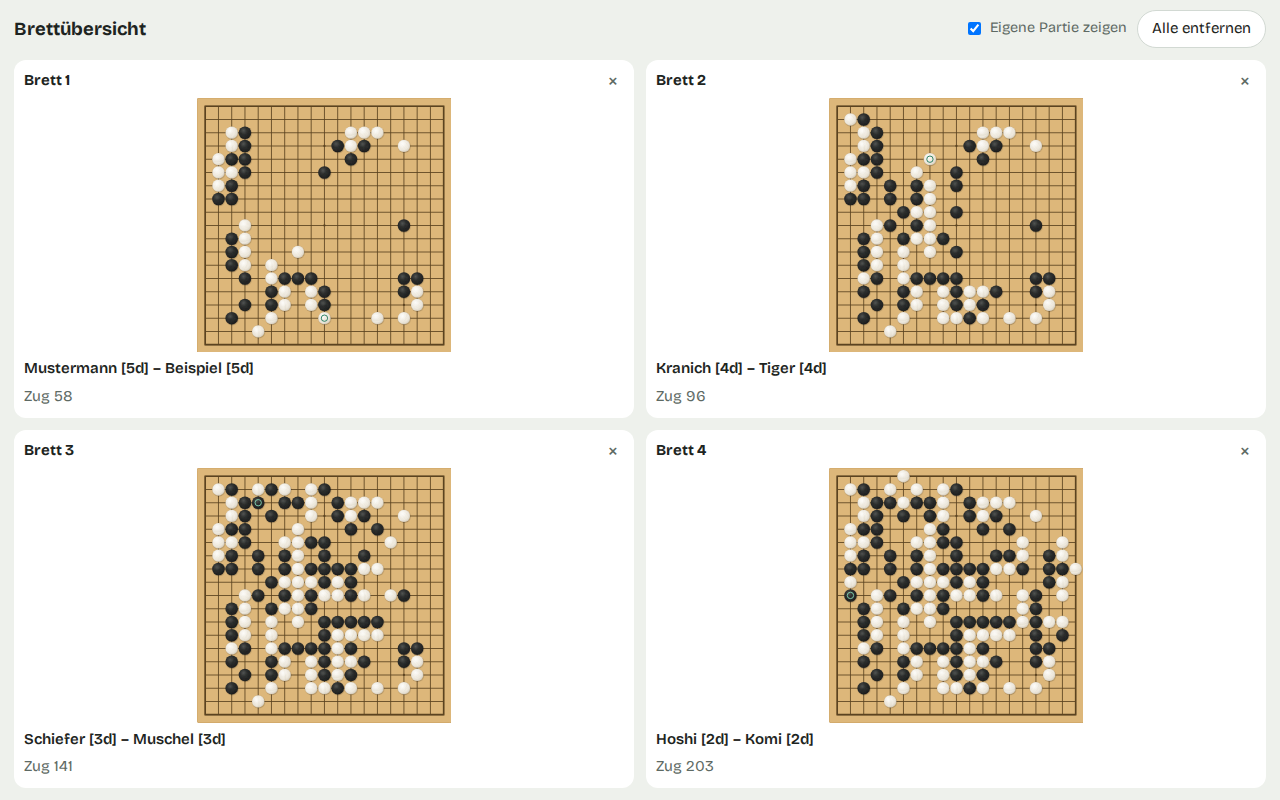
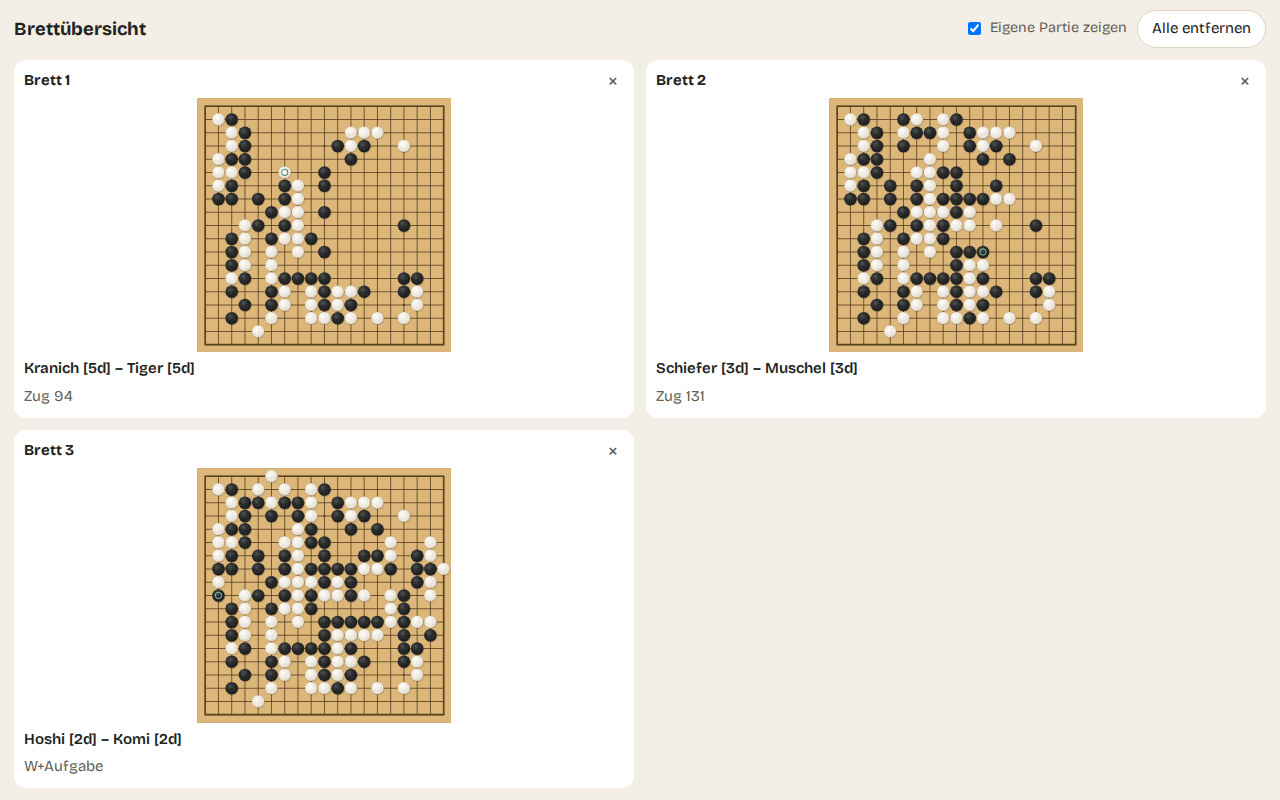
docs: new README screenshots with tones, columns and sound variants
Taken against the practice KGS; Beobachten added. Finding: a game whose
GAME_JOIN got lost shows an almost empty board.

diff --git a/README.md b/README.md
@@ -190,9 +190,6 @@ click (two-click solution).
 
 ## Screenshots
 
-(Taken on 26.11.2026 - before the warm background tones and the column layout of
-Beobachten; the boards and stones look the same.)
-
 **Live** - a broadcast with the official player and the board next to it (here the
 example: the EGF channel and the bundled EM 2026 final), design "Modern":
 
@@ -204,24 +201,29 @@ board, clam shell and slate stones, design "Modern dunkel":
 <img src="./docs/screenshots/app/nachspielen-katago.png" width="800" alt="Replay of the EM 2026 final at move 88 with KataGo's five best moves">
 
 **Kalender** - tournaments as a month sheet (or a list by region), ▶ marks games to
-replay:
+replay; background tone "Warmes Papier":
 
 <img src="./docs/screenshots/app/kalender.png" width="800" alt="Calendar month November 2026 with tournaments as bars">
 
-**Kanäle** - channels of players and federations with fixed air times, design
-"Classic":
+**Kanäle** - week plan of fixed air times and the newest videos of the channels,
+design "Classic":
 
 <img src="./docs/screenshots/app/kanaele-classic.png" width="800" alt="Channels page with week plan in the Classic design">
 
-**Brettübersicht** - four games in one window, e.g. a Go-Bundesliga team match (names
+**Beobachten** - running KGS games in columns with search, filters and sorting (names
+from the practice server `tools/fake_kgs.py`):
+
+<img src="./docs/screenshots/app/beobachten.png" width="800" alt="Watch page: game list in columns with filters for size, tournaments and sorting">
+
+**Brettübersicht** - several games in one window, e.g. a Go-Bundesliga team match (names
 and positions made up for the picture):
 
-<img src="./docs/screenshots/app/brettuebersicht.png" width="800" alt="Board overview with four live KGS games in a two by two grid">
+<img src="./docs/screenshots/app/brettuebersicht.png" width="800" alt="Board overview with three live KGS games">
 
-**Einstellungen** - language, menu order, sounds while playing and three designs,
-switched at once:
+**Einstellungen** - sounds while playing, each with four variants to choose from and
+listen to; further down language, menu order, designs and tones:
 
-<img src="./docs/screenshots/app/einstellungen.png" width="800" alt="Settings: language, menu order, sounds while playing, design choice">
+<img src="./docs/screenshots/app/einstellungen.png" width="800" alt="Settings: sounds while playing with a choice of four variants each">
 
 ## Brettübersicht (board overview)
 

diff --git a/AGENTS.md b/AGENTS.md
@@ -1013,6 +1013,14 @@ die schon offen sind, kommen nach vorn statt doppelt.
   "gibt es nicht (mehr)"; im einspaltigen Layout (≤ 900 px) passt das Brett in die Höhe.
   Speed-Go-Importer: Konten werden in mehreren Durchgängen gelernt (Reihenfolge egal),
   `ogs_players` nur für einen Eintrag am selben Tag.
+- Letztes Brett weg (× oder „Alle entfernen“) → die Brettübersicht schließt sich selbst
+  (`closeWhenEmpty`, Nutzer 28.11.2026: sie geht, wie sie mit dem ersten Brett kam; die eigene
+  Partie als Vorschau allein hält sie nicht offen). Leer über den Knopf geöffnet bleibt sie offen.
+  Private Partien zeigen „Private Partie – nur für eingeladene Zuschauer“ statt „Brett lädt …“
+  (`accessNoticeDe` in `ui/game/gameText.ts`, auch im Partiefenster und an TV-Brettern).
+- README-Bilder (28.11.2026) aufgenommen per Playwright gegen `tools/fake_kgs.py` (Port 8797, Kopie
+  von `app/build`, 1280x800); die Brettübersicht als echtes Pop-up des angemeldeten Hauptfensters -
+  ein Seitenwechsel per `page.goto` verliert dort Antworten (siehe `docs/agent-befunde.md`).
 - "Zur Brettübersicht" lässt eine schon offene Übersicht stehen (sie liest die neuen Bretter per
   storage-Event, Position und vergrößertes Brett bleiben) und sagt das; nur der Knopf
   "Brettübersicht" holt sie (geschlossen + neu geöffnet) nach vorn.

diff --git a/docs/agent-befunde.md b/docs/agent-befunde.md
@@ -6,3 +6,15 @@
 `app/src/lib/ui/user/UserDetailsModal.svelte.test.ts` „shows the details of another user and starts
 a chat“ scheiterte einmal im vollen `npm test`, einzeln zweimal grün, im nächsten vollen Lauf grün.
 Ursache nicht untersucht (vermutlich Zeitgrenze unter Last, wie zuvor `ScriptUpdate`).
+
+## 28.11.2026 – Partie ohne GAME_JOIN zeigt ein fast leeres Brett
+
+Beim Aufnehmen der README-Bilder (Übungs-KGS, Seitenwechsel per `page.goto` von `/konto` nach
+`/bretter`): ein noch offener Abruf (GET) der alten Seite holte die Antwort auf die neue
+JOIN_REQUEST ab, die Verbindung war schon zu (`BrokenPipeError` in `tools/fake_kgs.py` `_json`),
+das `GAME_JOIN` für Partie 2102 ging verloren. Danach kam nur ein `GAME_UPDATE` mit einem Zug, und
+die Brettübersicht zeigte ein Brett mit 1-2 Steinen bei „Zug 104“ - ohne Hinweis, dass der
+Partiebaum fehlt. Zwei offene Fragen: (1) Verhält sich der echte KGS bei einem abgebrochenen
+Long-Poll genauso (Nachrichten weg) - dann betrifft es F5 auch dort. (2) Baut `parseGameChannel`
+aus einem `GAME_UPDATE` ohne vorheriges `GAME_JOIN` einen Baum, der wie eine echte Stellung
+aussieht. Nicht untersucht, nichts geändert.
